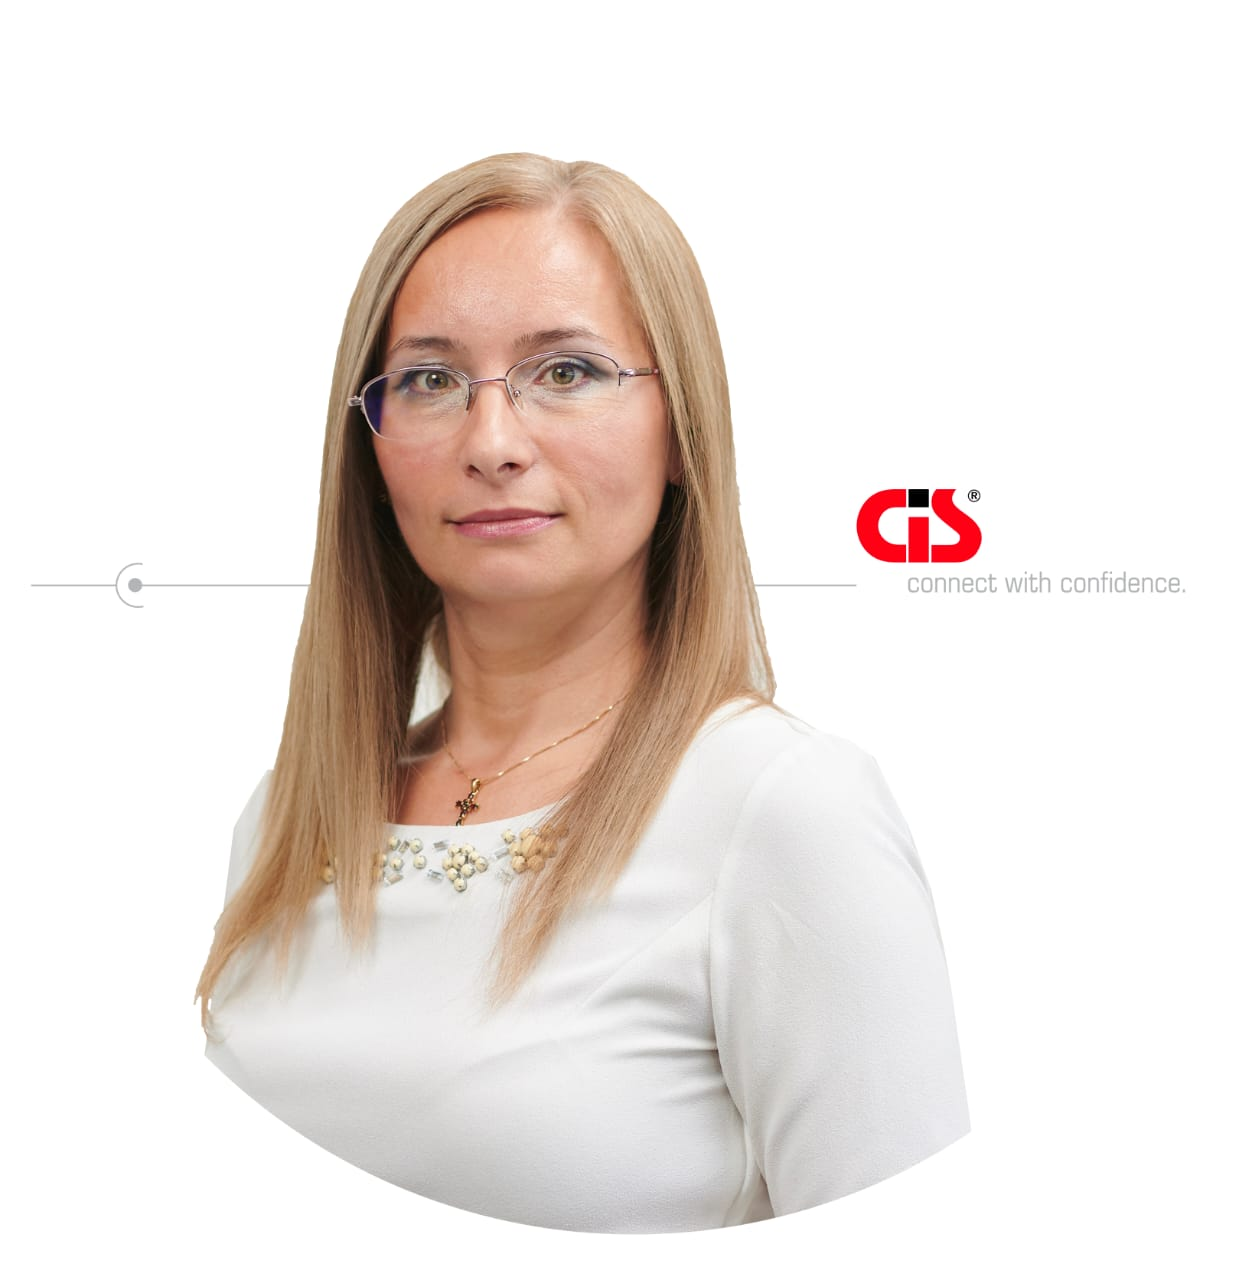
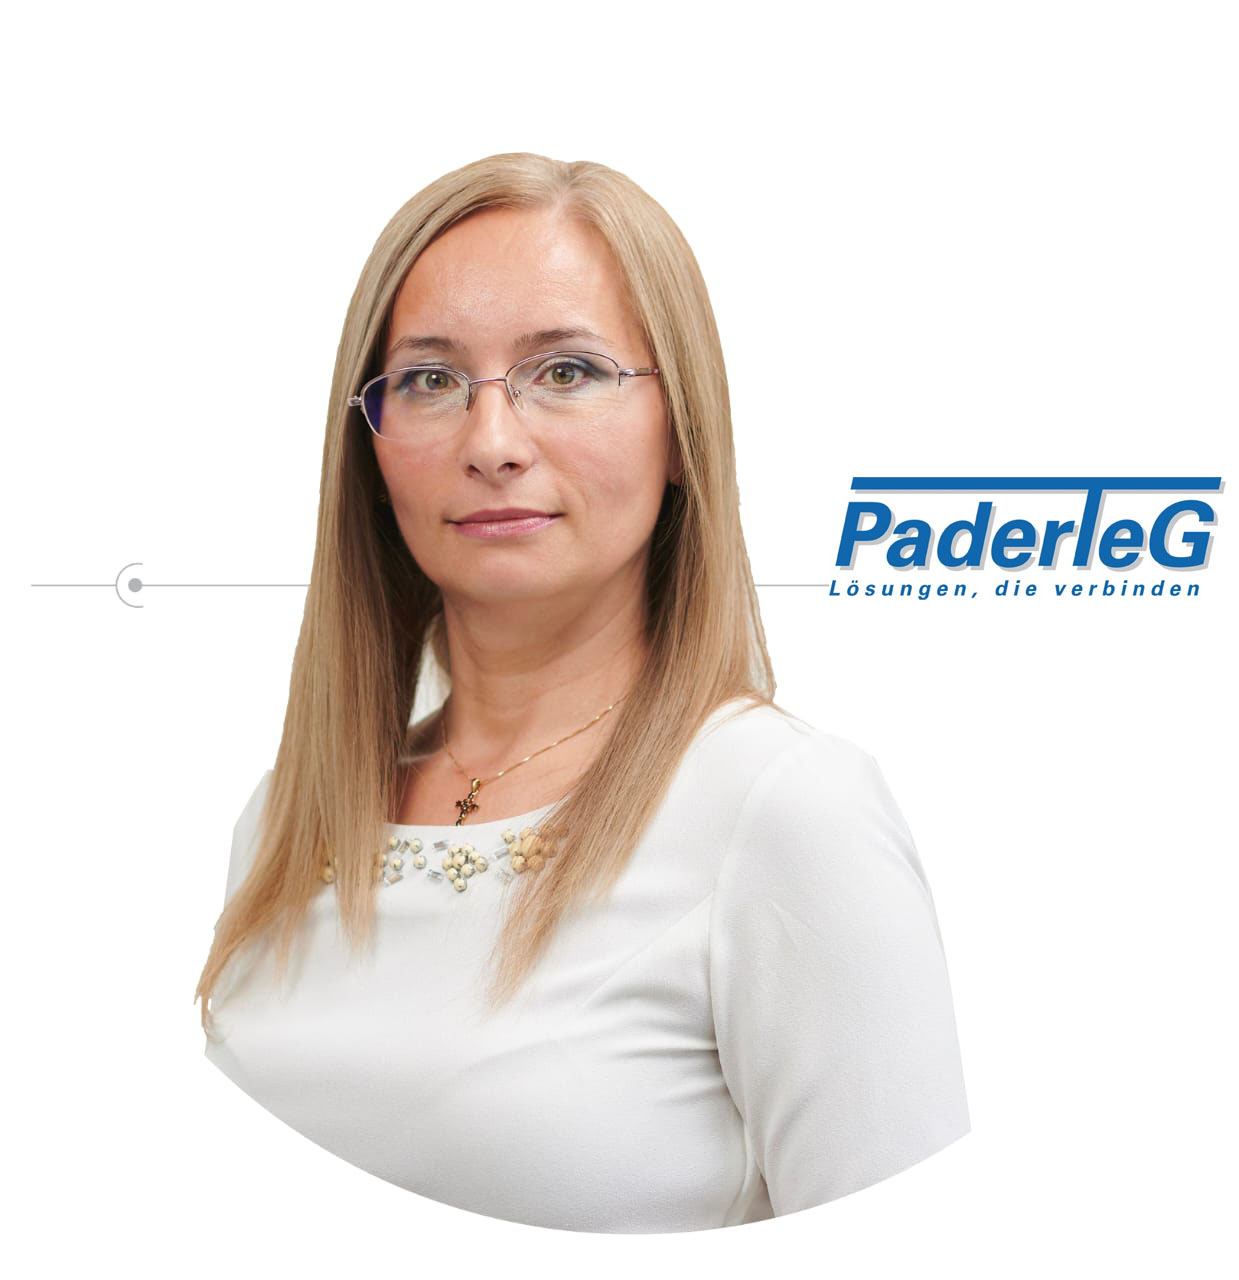
changes website - 26.03

Changed region(s): [[0.6747, 0.375, 1.0, 0.4688]]

diff --git a/resources/views/pages/home.blade.php b/resources/views/pages/home.blade.php
@@ -6,12 +6,9 @@
     <div class="px-[5%] py-20 md:py-24 lg:py-28 flex flex-col gap-20">
         <div class="mt-8">
             <x-sections.text-section>
-                <x-typography.header text="Connecting Solutions for a Brighter Tomorrow"/>
+                <x-typography.header text="Solution that Connect Performance with Reliability"/>
                 <div>
-                    <x-typography.paragraph text="At Paderteg Connecting Solutions, we specialize in innovative cable
-                        assembly and system technology. Our commitment to quality and
-                        efficiency drives us to connect industries and enhance operational
-                        excellence."/>
+                    <x-typography.paragraph text="At Paderteg Kabeltechnik, we provide innovative wiring and system integration solutions. With a strong focus on quality and efficiency, we help industries optimize performance, improve reliability, and ensure seamless connectivity in their operations."/>
                     <div class="mt-6 flex flex-wrap gap-4 md:mt-8">
                         <x-buttons.simple-button label="Learn More"/>
                         <x-buttons.simple-button label="Contact"/>
@@ -24,7 +21,7 @@
 
         <div class="grid grid-cols-1 gap-y-12 md:grid-cols-2 md:items-center md:gap-x-12 lg:gap-x-20">
             <div class="flex flex-col gap-6">
-                <x-typography.header text="A Legacy of Innovation and Growth"/>
+                <x-typography.header text="A Legacy of Innovation, Build on Innovation"/>
 
                 <x-typography.paragraph text="Since our founding in 2004, we have evolved significantly, adapting to
                         the changing landscape of technology and industry. Our journey
@@ -45,8 +42,8 @@
 
         <div>
             <x-sections.text-section>
-                <x-typography.header text="Connecting the World with Reliable and Efficient Technology Solutions"/>
-                <x-typography.paragraph text="                    At Paderteg Connecting Solutions, we are dedicated to delivering
+                <x-typography.header text="Connecting the World Through Reliable & Efficient Solutions"/>
+                <x-typography.paragraph text="At Paderteg Kabeltechnik, we are dedicated to delivering
                     innovative technology that ensures seamless connectivity across
                     industries. Our mission is to provide high-quality cable assembly and
                     system solutions that enhance operational efficiency. With a commitment
@@ -130,13 +127,8 @@
 
         <div>
             <x-sections.text-section>
-                <x-typography.header text="Discover Our Impact: Key Statistics About Paderteg Connecting
-                        Solutions"/>
-                <x-typography.paragraph text="With over 500 dedicated employees, Paderteg Connecting Solutions has
-                        been a leader in cable assembly and system technology since 2004. Our
-                        commitment to innovation and efficiency has allowed us to establish
-                        three manufacturing sites in Romania. We proudly serve a diverse range
-                        of industries, ensuring quality and reliability in every project."/>
+                <x-typography.header text="About – Paderteg Kabeltechnik"/>
+                <x-typography.paragraph text="With over 500 dedicated employees, Paderteg Kabeltechnik produced cable assemblies since 2004. Our commitment to innovation and efficiency has allowed us to establish three manufacturing sites in Romania. We proudly serve a diverse range of industries, ensuring quality and reliability in every project."/>
             </x-sections.text-section>
 
             <div class="grid grid-cols-1 gap-8 lg:grid-cols-3">

diff --git a/resources/views/pages/about.blade.php b/resources/views/pages/about.blade.php
@@ -99,21 +99,21 @@
                         sub-title="Copsa Mica"
                         description="over 3.000 m² production area,
                             warehouse & offices"
-                        address="Aleea Primăverii 11, Copșa Mică 555400"
+                        address="Aleea Salcamilor 18, Copșa Mică 555400"
                         href="https://www.google.com/maps/place/Aleea+Primăverii+11,+Copșa+Mică+555400/@46.1118904,24.2286564,235m/data=!3m1!1e3!4m6!3m5!1s0x474b8b9707dda2c5:0xfa15166384addb34!8m2!3d46.1128352!4d24.2294168!16s%2Fg%2F11l1jrlqjw?entry=ttu&g_ep=EgoyMDI1MDMxMi4wIKXMDSoASAFQAw%3D%3D"
                     />
                     <x-cards.location-card
                         title="Extended Manufacturing site"
                         sub-title="Copsa Mica"
-                        description="1,200 m² production area and warehouse. IATF certified production location"
-                        address="Aleea Primăverii 11, Copșa Mică 555400"
+                        description="1,200 m² production area and warehouse."
+                        address="Aleea Salcamilor 19, Copșa Mică 555400"
                         href="https://www.google.com/maps/place/Aleea+Primăverii+11,+Copșa+Mică+555400/@46.1118904,24.2286564,235m/data=!3m1!1e3!4m6!3m5!1s0x474b8b9707dda2c5:0xfa15166384addb34!8m2!3d46.1128352!4d24.2294168!16s%2Fg%2F11l1jrlqjw?entry=ttu&g_ep=EgoyMDI1MDMxMi4wIKXMDSoASAFQAw%3D%3D"
                     />
                     <x-cards.location-card
                         title="Manufacturing site"
                         sub-title="Axente Sever"
                         description="over 1.000 m² production area, warehouse & offices Expansion up to 30,000 m²"
-                        address="DN14B, Copșa Mică 555400"
+                        address="DN 14B, Nr 1B, 557025 Axente Sever"
                         href="https://www.google.com/maps/place/CIS+AUTOMOTIVE/@46.1087911,24.214978,2208m/data=!3m1!1e3!4m6!3m5!1s0x474b8b8cec0bed73:0xb2fd8ab4fe3c49c0!8m2!3d46.1087913!4d24.2182941!16s%2Fg%2F11nfs7g0c4?entry=ttu&g_ep=EgoyMDI1MDMxMi4wIKXMDSoASAFQAw%3D%3D"
                     />
                 </div>

diff --git a/resources/views/partials/navigation.blade.php b/resources/views/partials/navigation.blade.php
@@ -1,8 +1,8 @@
 <nav class="bg-white dark:bg-gray-900 fixed w-full z-20 top-0 start-0 border-b border-gray-200 dark:border-gray-600">
     <div class="max-w-screen-xl flex flex-wrap items-center justify-between mx-auto p-4">
         <a href="https://flowbite.com/" class="flex items-center space-x-3 rtl:space-x-reverse">
-            <img src="https://flowbite.com/docs/images/logo.svg" class="h-8" alt="Flowbite Logo"/>
-            <span class="self-center text-2xl font-semibold whitespace-nowrap dark:text-white">Flowbite</span>
+            <img src="{{ asset('assets/logo.jpeg') }}" class="h-10" alt="Flowbite Logo"/>
+            <span class="self-center text-2xl font-semibold whitespace-nowrap dark:text-white"></span>
         </a>
         <div class="flex items-center md:order-2 space-x-1 md:space-x-0 rtl:space-x-reverse">
             <button type="button" data-dropdown-toggle="language-dropdown-menu"

diff --git a/resources/views/components/elements/video.blade.php b/resources/views/components/elements/video.blade.php
@@ -1,4 +1,4 @@
 <video {{ $attributes->merge(['class' => '']) }} loop muted autoplay>
-    <source src="{{ \Illuminate\Support\Facades\Storage::disk('public')->url($src) }}" type="video/mp4">
+    <source src="{{ \Illuminate\Support\Facades\Storage::disk('s3')->url($src) }}" type="video/mp4">
 </video>
 

diff --git a/routes/web.php b/routes/web.php
@@ -1,6 +1,7 @@
 <?php
 
 use Illuminate\Support\Facades\Route;
+use Illuminate\Support\Facades\Storage;
 
 Route::get('/', function () {
     return view('pages.home');
